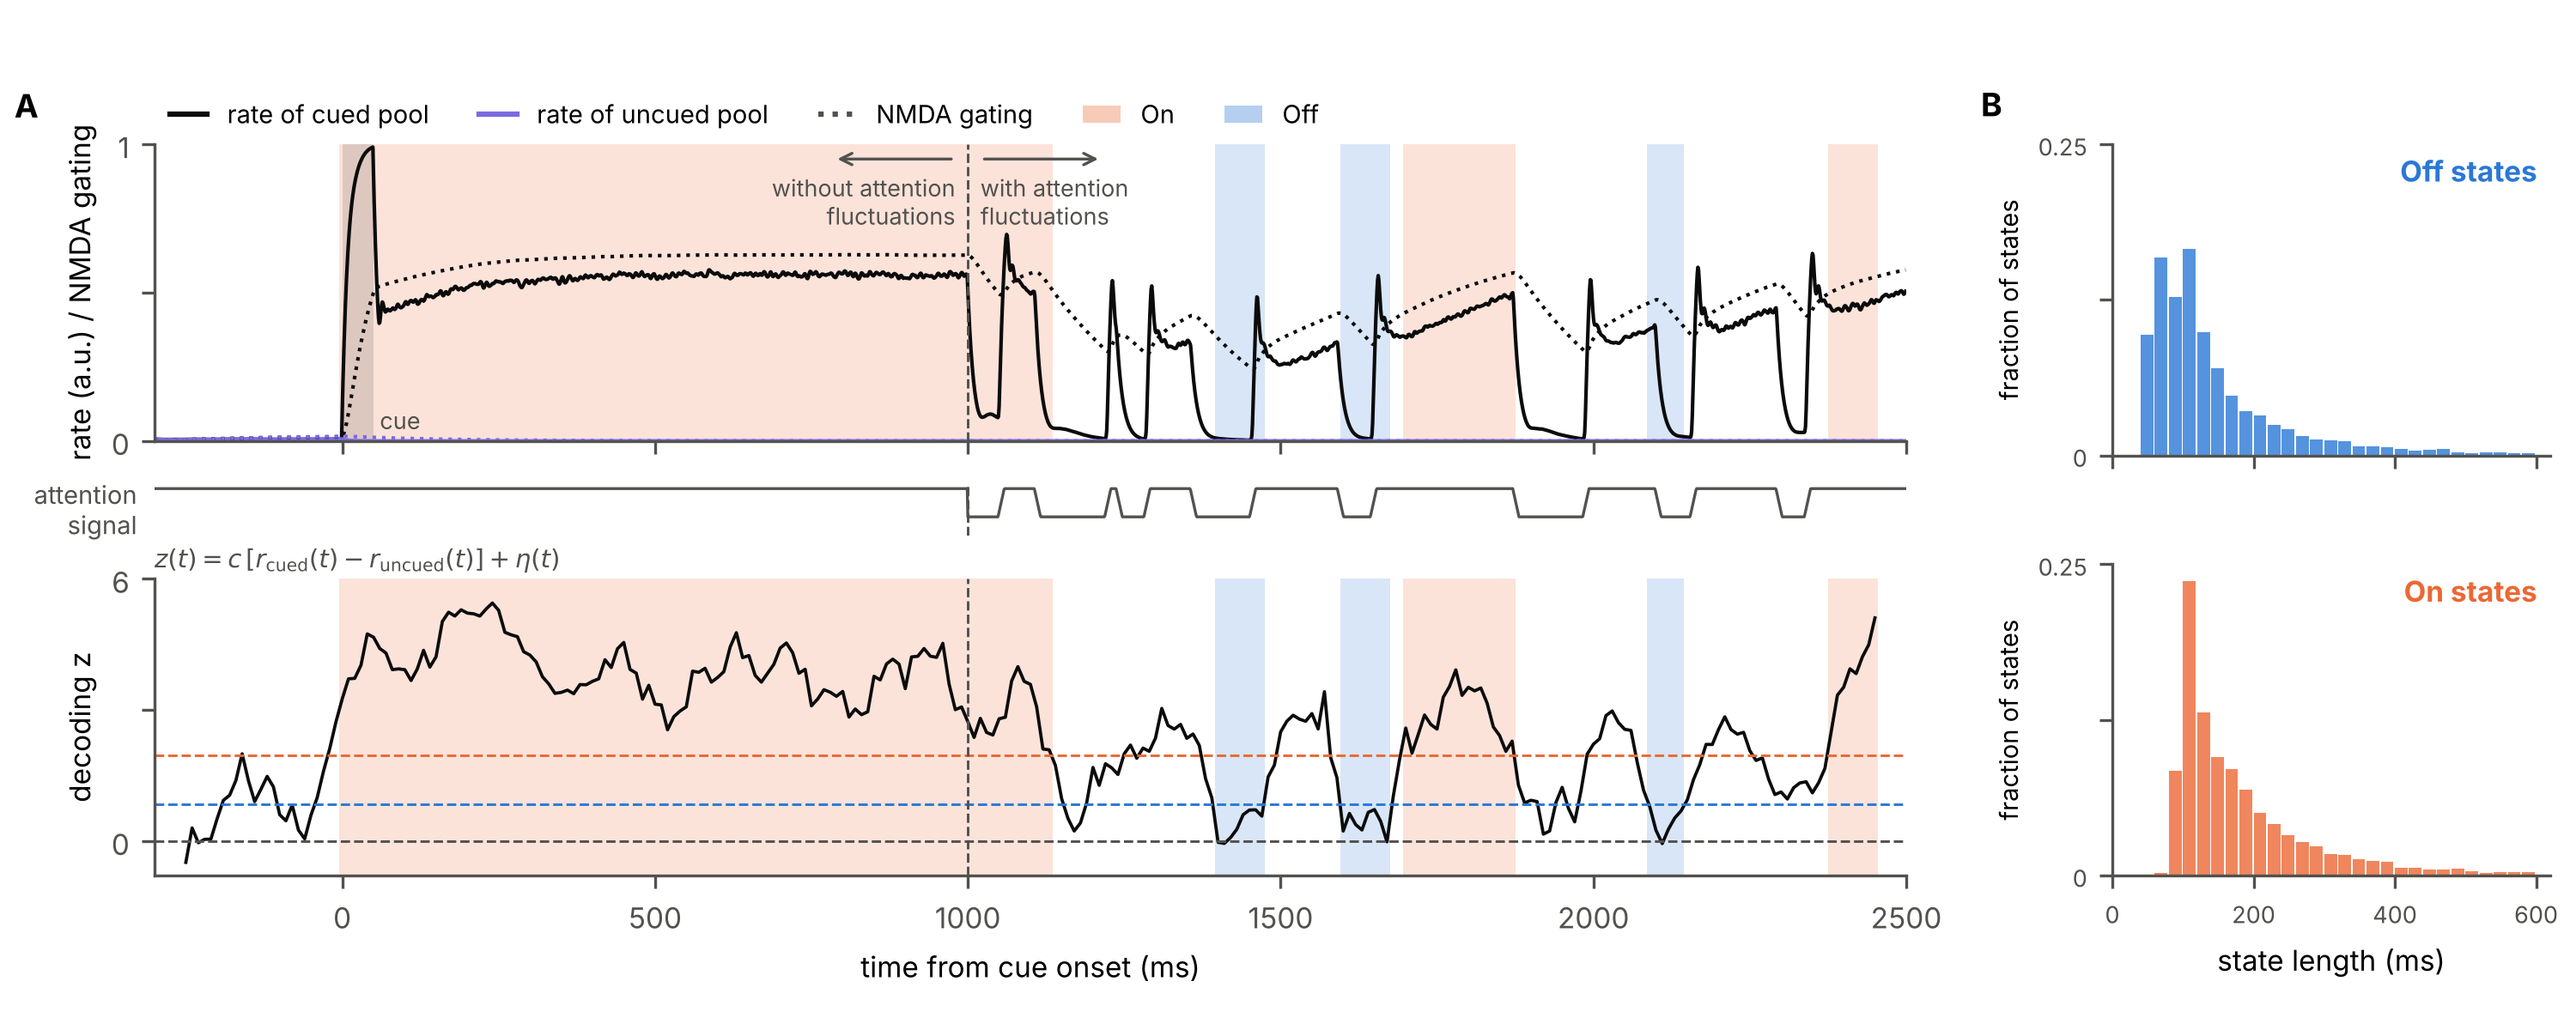
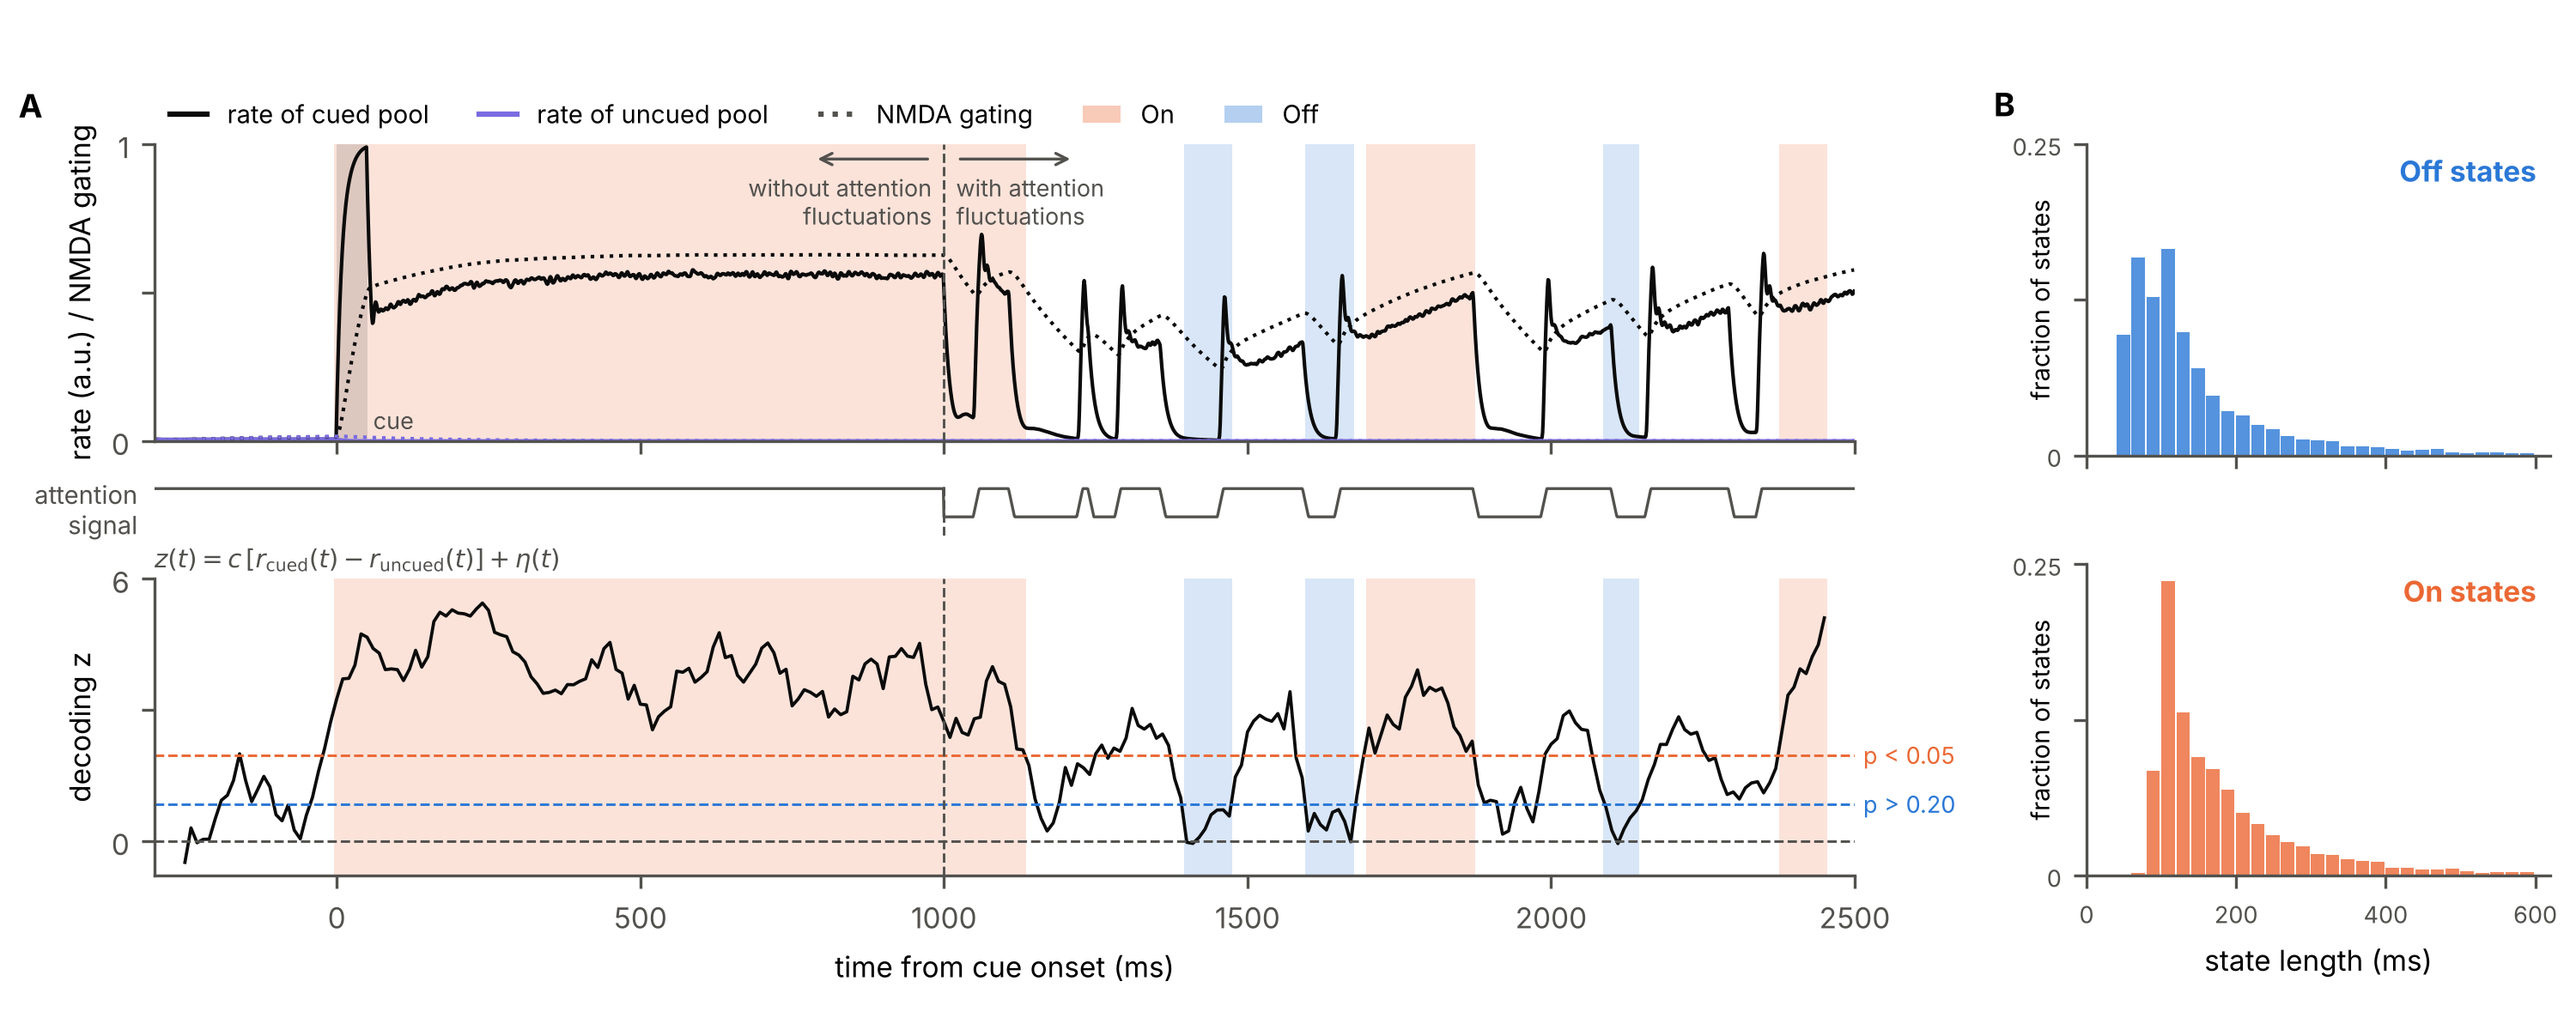
Figure 1: p-value labels on the decoding thresholds; tighter histogram y labels
Claude-Session: https://claude.ai/code/session_01DWA8oLxpZgubPZ4A6kb3Lh

diff --git a/paper_model/make_figures.py b/paper_model/make_figures.py
@@ -60,8 +60,8 @@ def figure1(out, path):
     r = out['sets'][FIT_SET]
     tr, t, tz, z, state = example_trial(r['gain'])
     fig = plt.figure(figsize=(10.0, 4.0))
-    gs = fig.add_gridspec(3, 1, height_ratios=[2.0, 0.35, 2.0], hspace=0.2, left=0.06, right=0.74, top=0.86, bottom=0.15)
-    gh = fig.add_gridspec(2, 1, hspace=0.35, left=0.82, right=0.99, top=0.86, bottom=0.15)
+    gs = fig.add_gridspec(3, 1, height_ratios=[2.0, 0.35, 2.0], hspace=0.2, left=0.06, right=0.72, top=0.86, bottom=0.15)
+    gh = fig.add_gridspec(2, 1, hspace=0.35, left=0.81, right=0.99, top=0.86, bottom=0.15)
     a, b, d = fig.add_subplot(gs[0]), fig.add_subplot(gs[1]), fig.add_subplot(gs[2])
     shade(a, tz, state)
     a.axvspan(0, M.FIXED['cue_dur'], color=INK, alpha=0.12, lw=0)
@@ -87,8 +87,9 @@ def figure1(out, path):
     b.text(-0.01, 0.5, 'attention\nsignal', transform=b.transAxes, ha='right', va='center', fontsize=7, color=INK2)
     shade(d, tz, state)
     d.plot(tz, z, color=INK, lw=0.9)
-    for y, c in ((0, INK2), (1.96, C_ON), (0.84, C_OFF)):
+    for y, c, txt in ((0, INK2, ''), (1.96, C_ON, 'p < 0.05'), (0.84, C_OFF, 'p > 0.20')):
         d.axhline(y, color=c, ls='--', lw=0.7)
+        d.text(1.005, y, txt, transform=d.get_yaxis_transform(), color=c, fontsize=6.5, va='center')
     d.set_ylim(z.min() - 0.3, 6); d.set_yticks([0, 3, 6], ['0', '', '6'])
     d.set_ylabel('decoding z')
     d.set_title(r'$z(t) = c\,[r_\mathrm{cued}(t) - r_\mathrm{uncued}(t)] + \eta(t)$',
@@ -106,11 +107,11 @@ def figure1(out, path):
         h.bar(edges[:-1], hm[:-1] / hm.sum(), width=18, align='edge', color=c, alpha=0.8, lw=0)
         h.set_xlim(0, 620); h.set_xticks([0, 200, 400, 600])
         h.set_ylim(0, 0.25); h.set_yticks([0, 0.125, 0.25], ['0', '', '0.25'])
-        h.tick_params(labelsize=6.5); h.set_ylabel('fraction of states', fontsize=7)
+        h.tick_params(labelsize=6.5); h.set_ylabel('fraction of states', fontsize=7, labelpad=-12)   # beside the unlabelled middle tick
         h.text(0.97, 0.88, f'{name.capitalize()} states', transform=h.transAxes, ha='right', color=c, weight='bold')
         if j == 0:
             h.tick_params(labelbottom=False)
-            h.text(-0.3, 1.09, 'B', transform=h.transAxes, fontsize=9, weight='bold')
+            h.text(-0.2, 1.09, 'B', transform=h.transAxes, fontsize=9, weight='bold')
         else:
             h.set_xlabel('state length (ms)')
     fig.savefig(path, dpi=300)
